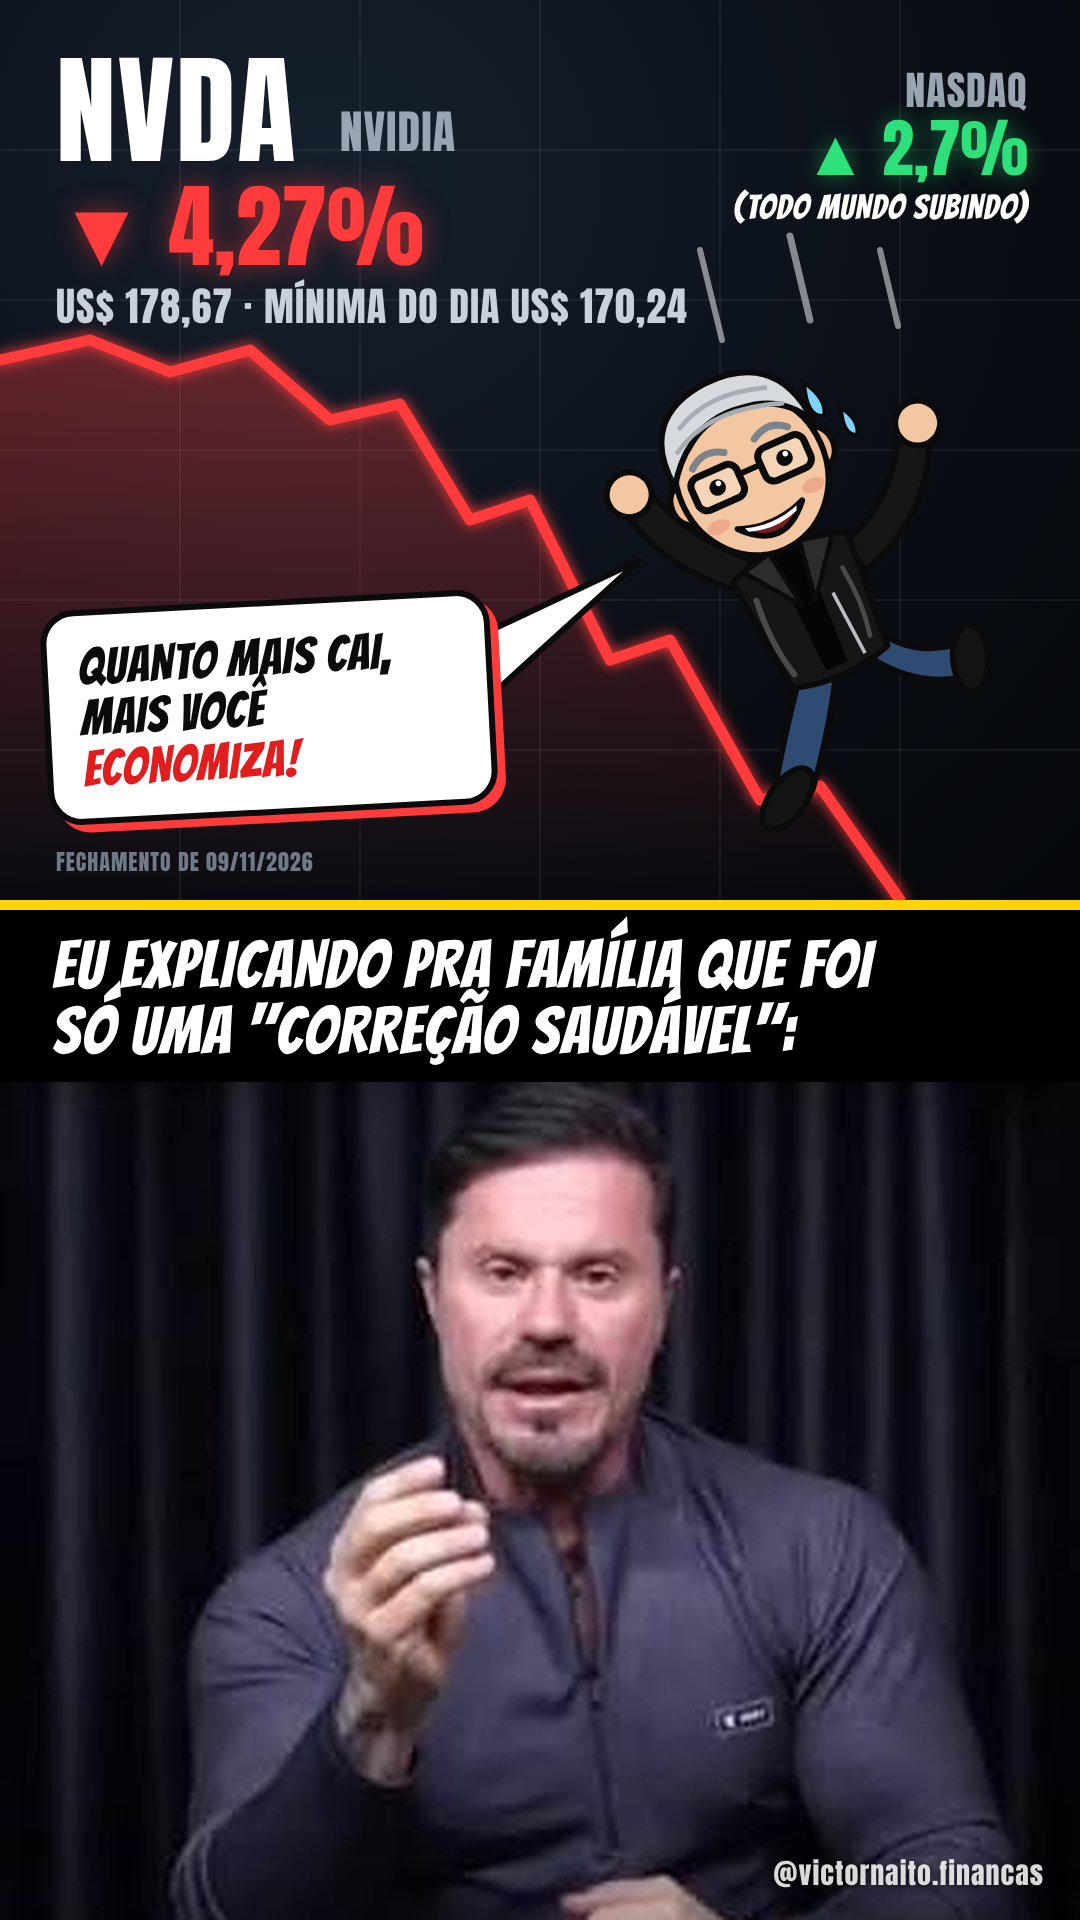
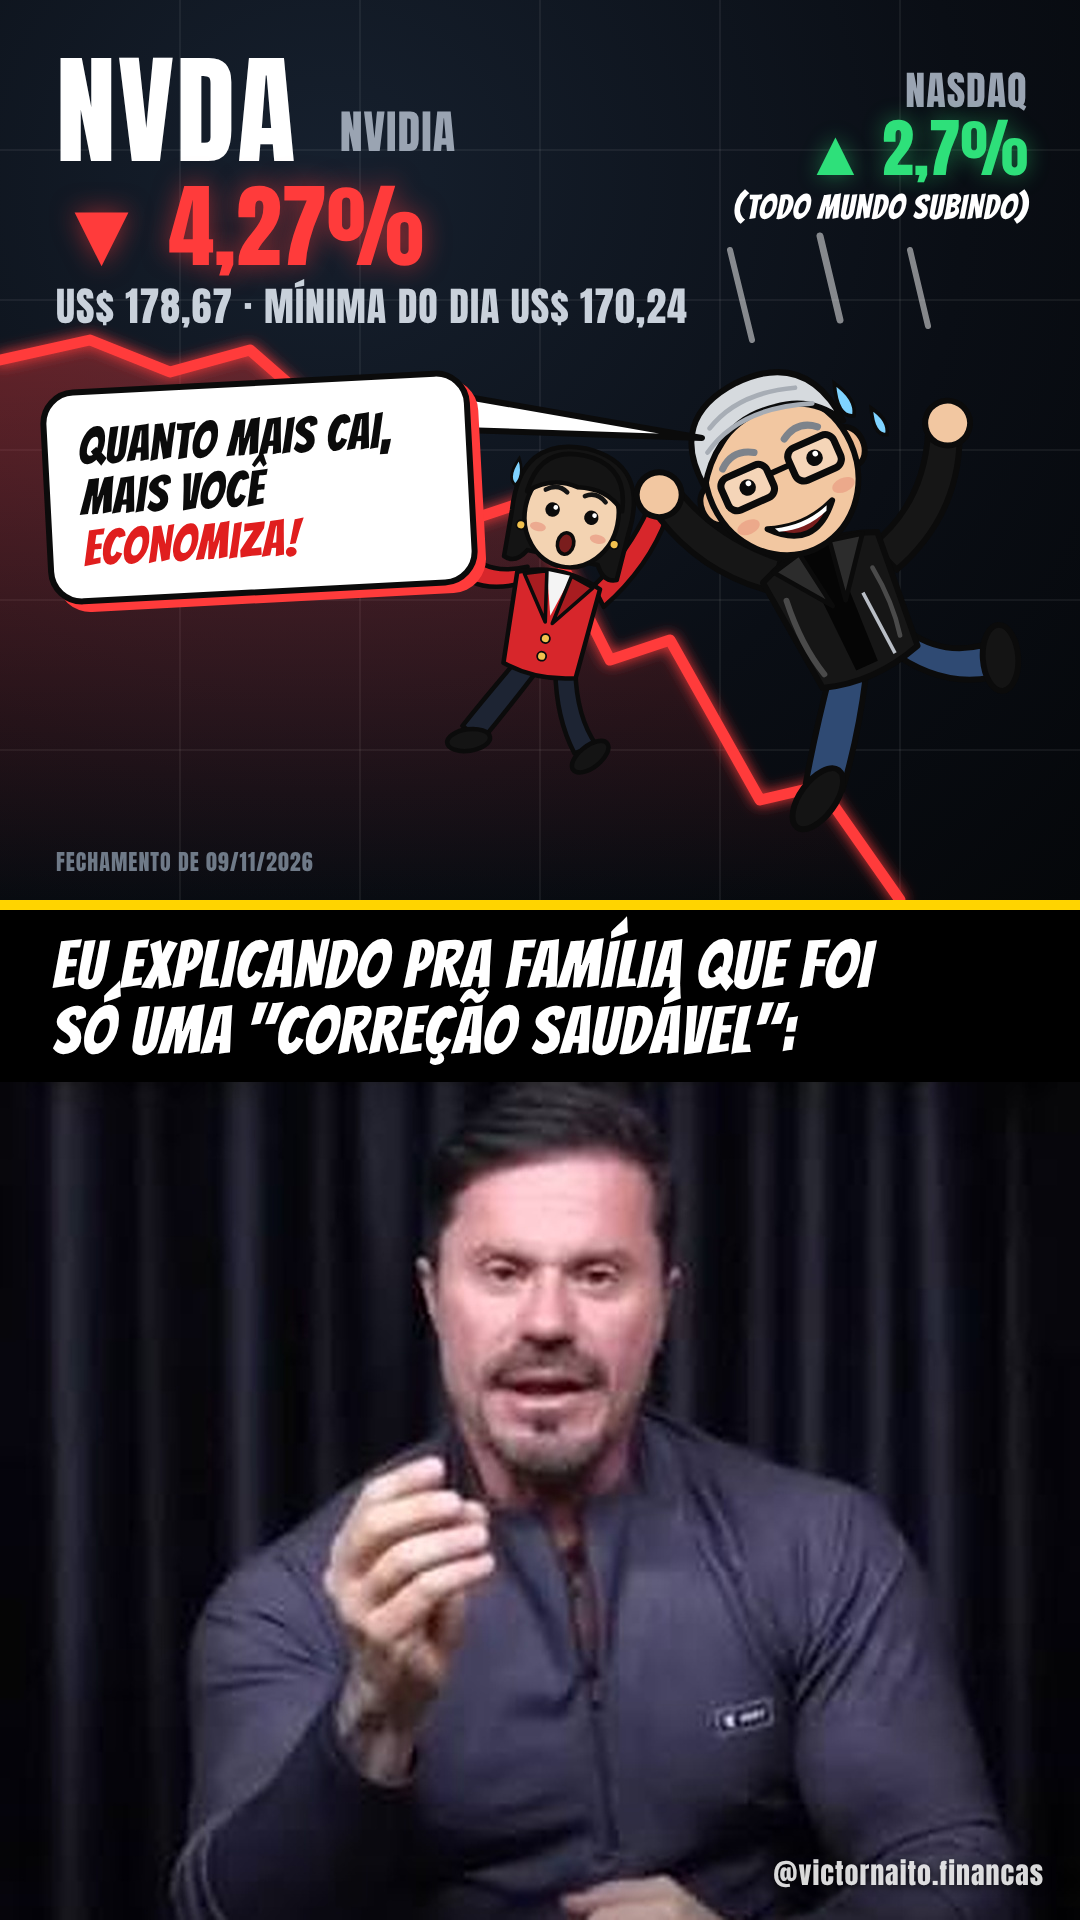
Post NVDA: acompanhante caindo de mãos dadas com o Jensen
Claude-Session: https://claude.ai/code/session_01S962yGRiLYDbZE1cG8oSHB

Changed region(s): [[0.0306, 0.125, 0.9167, 0.4375], [0.7333, 0.125, 0.8861, 0.25]]

diff --git a/carrosseis/nvda-jensen-caindo/src/post.html b/carrosseis/nvda-jensen-caindo/src/post.html
@@ -23,7 +23,7 @@
   .nasdaq .n1 { font-size: 40px; color: #9aa4b2; letter-spacing: 1px; }
   .nasdaq .n2 { font-size: 64px; color: #2ee07a; margin-top: 6px; text-shadow: 0 0 22px rgba(46,224,122,.45); }
   .nasdaq .n3 { font-family: Bangers; font-size: 34px; color: #fff; margin-top: 10px; letter-spacing: 1px; }
-  .balao { position: absolute; left: 44px; top: 600px; width: 450px; padding: 26px 30px 24px;
+  .balao { position: absolute; left: 44px; top: 380px; width: 430px; padding: 26px 30px 24px;
            background: #fff; border: 6px solid #0b0b0b; border-radius: 34px;
            font-family: Bangers; font-size: 50px; line-height: 1.02; color: #0b0b0b; letter-spacing: 1px;
            transform: rotate(-3deg); box-shadow: 8px 8px 0 #ff3b3b; }
@@ -79,13 +79,56 @@
 
       <!-- linhas de velocidade (ele vem caindo de cima) -->
       <g stroke="#ffffff" stroke-linecap="round" opacity=".5">
-        <line x1="700" y1="250" x2="722" y2="340" stroke-width="6"/>
-        <line x1="790" y1="236" x2="810" y2="320" stroke-width="7"/>
-        <line x1="880" y1="250" x2="898" y2="326" stroke-width="6"/>
+        <line x1="730" y1="250" x2="752" y2="340" stroke-width="6"/>
+        <line x1="820" y1="236" x2="840" y2="320" stroke-width="7"/>
+        <line x1="910" y1="250" x2="928" y2="326" stroke-width="6"/>
+      </g>
+
+      <!-- a acompanhante, de mãos dadas com ele na queda (personagem genérica, sem caricatura de ninguém real) -->
+      <g transform="translate(557,584) rotate(12) scale(0.9)">
+        <g stroke="#0b0b0b" stroke-width="5" stroke-linejoin="round" stroke-linecap="round">
+          <!-- pernas -->
+          <path d="M-26,92 Q-52,140 -70,176 L-46,188 Q-26,150 -4,104 Z" fill="#1d2433"/>
+          <path d="M18,94 Q30,146 58,180 L80,166 Q52,140 40,90 Z" fill="#1d2433"/>
+          <ellipse cx="-60" cy="190" rx="24" ry="12" transform="rotate(-20 -60 190)" fill="#141414"/>
+          <ellipse cx="76" cy="180" rx="24" ry="12" transform="rotate(-50 76 180)" fill="#141414"/>
+          <!-- braço esquerdo se debatendo -->
+          <path d="M-44,10 Q-90,30 -118,4 L-104,-16 Q-80,8 -36,-12 Z" fill="#d7262b"/>
+          <circle cx="-120" cy="-6" r="16" fill="#f3d3b2"/>
+          <!-- braço direito segurando a mão dele -->
+          <path d="M40,-6 Q70,-50 82,-104 L104,-98 Q96,-40 56,14 Z" fill="#d7262b"/>
+          <circle cx="94" cy="-116" r="16" fill="#f3d3b2"/>
+          <!-- blazer vermelho -->
+          <path d="M-46,-4 Q0,-24 48,-4 L42,98 Q0,110 -40,98 Z" fill="#d7262b"/>
+        </g>
+        <path d="M-14,-12 L14,-12 L0,36 Z" fill="#f4f4f4"/>
+        <path d="M-38,-4 L-14,-12 L-4,44 Z" fill="#a81c20" stroke="#0b0b0b" stroke-width="4" stroke-linejoin="round"/>
+        <path d="M40,-4 L14,-12 L4,44 Z" fill="#a81c20" stroke="#0b0b0b" stroke-width="4" stroke-linejoin="round"/>
+        <circle cx="0" cy="62" r="5" fill="#f2c14e" stroke="#0b0b0b" stroke-width="2"/>
+        <circle cx="0" cy="82" r="5" fill="#f2c14e" stroke="#0b0b0b" stroke-width="2"/>
+        <!-- cabeça: cabelo chanel preto -->
+        <g stroke="#0b0b0b" stroke-width="5" stroke-linejoin="round">
+          <path d="M-66,-70 Q-74,-152 0,-154 Q74,-152 66,-70 L64,-18 Q50,-12 40,-30 L-40,-30 Q-50,-12 -64,-18 Z" fill="#141414"/>
+          <ellipse cx="0" cy="-78" rx="52" ry="58" fill="#f3d3b2"/>
+          <path d="M-54,-94 Q-50,-146 0,-146 Q50,-146 54,-94 Q34,-116 0,-110 Q-30,-116 -54,-94 Z" fill="#141414"/>
+        </g>
+        <!-- sobrancelhas, olhos, boca de susto -->
+        <path d="M-34,-100 Q-22,-110 -10,-102" stroke="#141414" stroke-width="5" fill="none" stroke-linecap="round"/>
+        <path d="M10,-102 Q22,-110 34,-100" stroke="#141414" stroke-width="5" fill="none" stroke-linecap="round"/>
+        <circle cx="-22" cy="-80" r="8" fill="#0b0b0b"/>
+        <circle cx="22" cy="-80" r="8" fill="#0b0b0b"/>
+        <circle cx="-19" cy="-83" r="2.6" fill="#fff"/>
+        <circle cx="25" cy="-83" r="2.6" fill="#fff"/>
+        <ellipse cx="0" cy="-46" rx="9" ry="12" fill="#7a1d1d" stroke="#0b0b0b" stroke-width="4"/>
+        <ellipse cx="-34" cy="-58" rx="9" ry="5" fill="#e88f7a" opacity=".6"/>
+        <ellipse cx="34" cy="-58" rx="9" ry="5" fill="#e88f7a" opacity=".6"/>
+        <circle cx="-53" cy="-56" r="5" fill="#f2c14e" stroke="#0b0b0b" stroke-width="2"/>
+        <circle cx="53" cy="-56" r="5" fill="#f2c14e" stroke="#0b0b0b" stroke-width="2"/>
+        <path d="M-70,-128 Q-60,-110 -68,-98 Q-80,-104 -70,-128 Z" fill="#7fd3ff" stroke="#0b0b0b" stroke-width="3"/>
       </g>
 
       <!-- Jensen em miniatura, caindo junto (caricatura) -->
-      <g transform="translate(790,560) rotate(-24) scale(1.18)">
+      <g transform="translate(820,560) rotate(-24) scale(1.18)">
         <!-- sombra de contorno geral -->
         <g stroke="#0b0b0b" stroke-width="5" stroke-linejoin="round" stroke-linecap="round">
           <!-- pernas (jeans) se debatendo -->
@@ -148,7 +191,7 @@
       </g>
 
       <!-- rabicho do balão apontando pro Jensen -->
-      <path d="M470,640 L640,560 L486,700 Z" fill="#fff" stroke="#0b0b0b" stroke-width="6" stroke-linejoin="round"/>
+      <path d="M462,396 L702,438 L462,430 Z" fill="#fff" stroke="#0b0b0b" stroke-width="6" stroke-linejoin="round"/>
     </svg>
 
     <div class="ticker">

diff --git a/carrosseis/nvda-jensen-caindo/README.md b/carrosseis/nvda-jensen-caindo/README.md
@@ -1,6 +1,6 @@
 # Post · Jensen caindo junto com a NVDA
 
-Meme vertical 1080x1920, tela dividida: em cima, o Jensen em miniatura (caricatura desenhada em SVG) caindo junto com o gráfico; embaixo, a foto de reação com a legenda.
+Meme vertical 1080x1920, tela dividida: em cima, o Jensen em miniatura (caricatura desenhada em SVG) caindo junto com o gráfico, de mãos dadas com uma acompanhante de blazer vermelho (personagem genérica); embaixo, a foto de reação com a legenda.
 
 - Arte final: `resultados/post-nvda-jensen.png`
 - Legenda do post: `resultados/legenda.txt`
